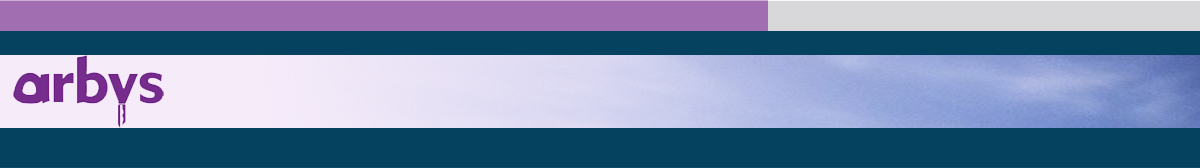
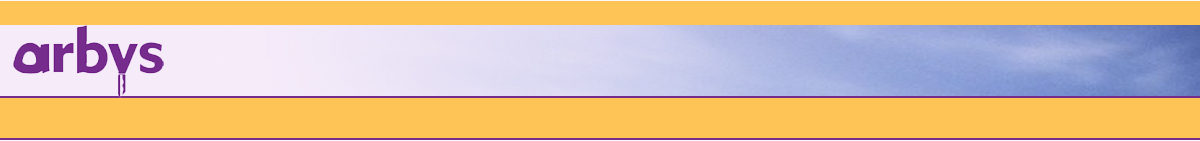
Change in header frontend

diff --git a/public/css/style.css b/public/css/style.css
@@ -6,7 +6,7 @@
     -moz-background-size:cover;
     -o-background-size:cover;
     -ms-background-size:cover;*/
-    min-height: 170px;
+    min-height: 130px;
 }
 
 iframe {
@@ -123,7 +123,7 @@ input:checked + .slider:before {
     padding-bottom: 8px;
 }
 .navbar-default .navbar-collapse, .navbar-default .navbar-form{
-    padding-top: 130px;
+    padding-top: 90px;
     padding-right: 20px;
 }
 .navbar-default .navbar-nav>li>a, .navbar-default .navbar-text{
